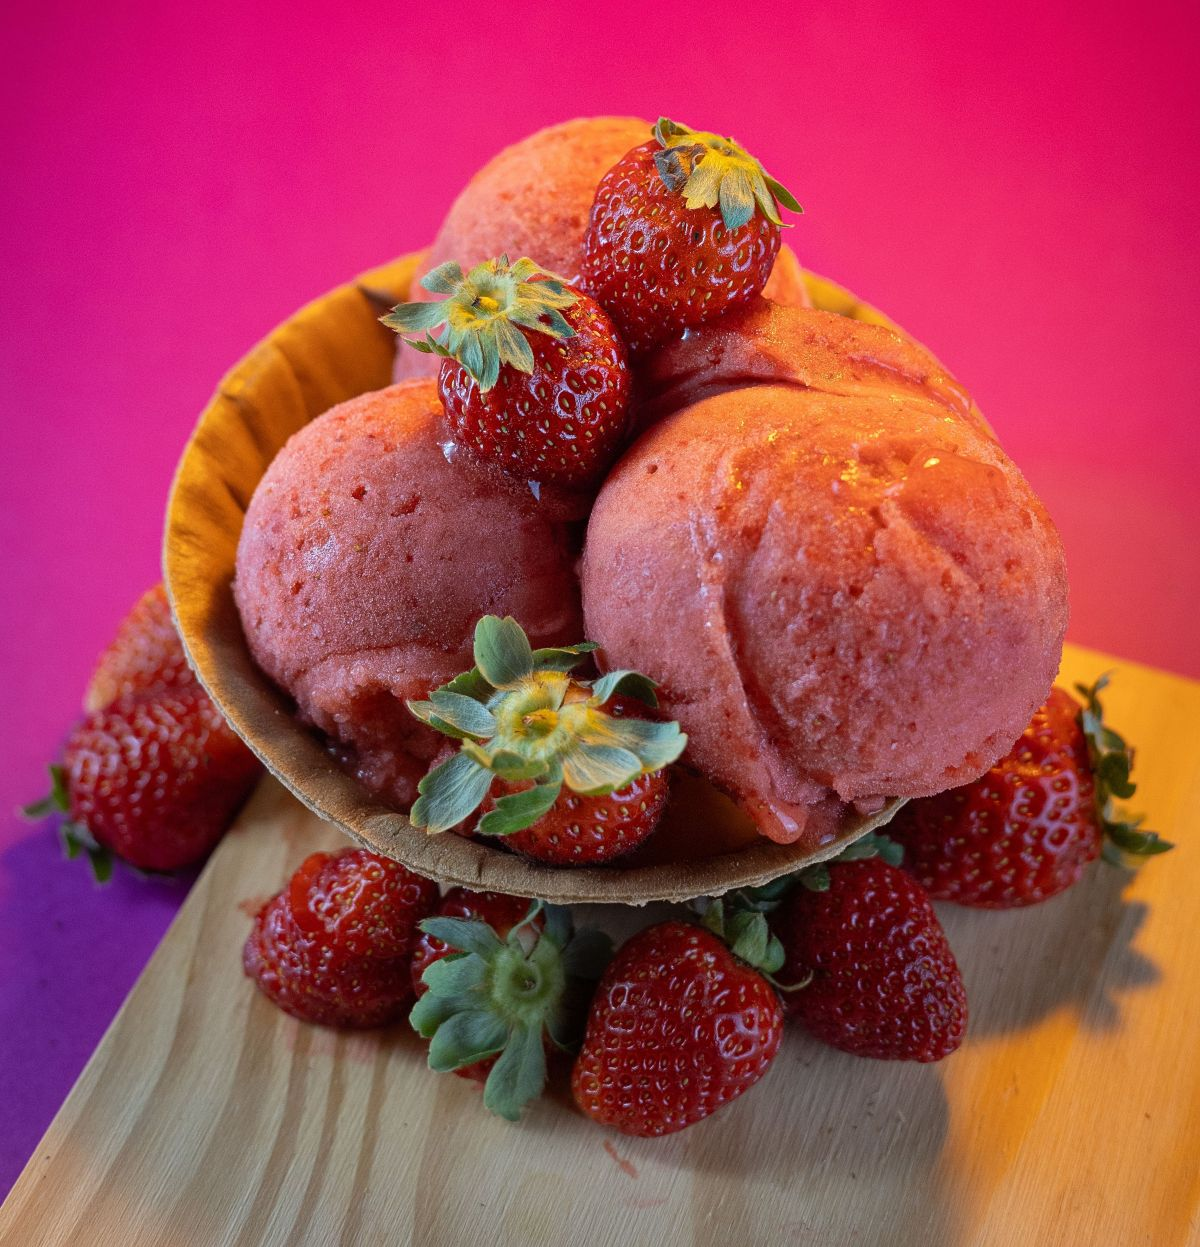
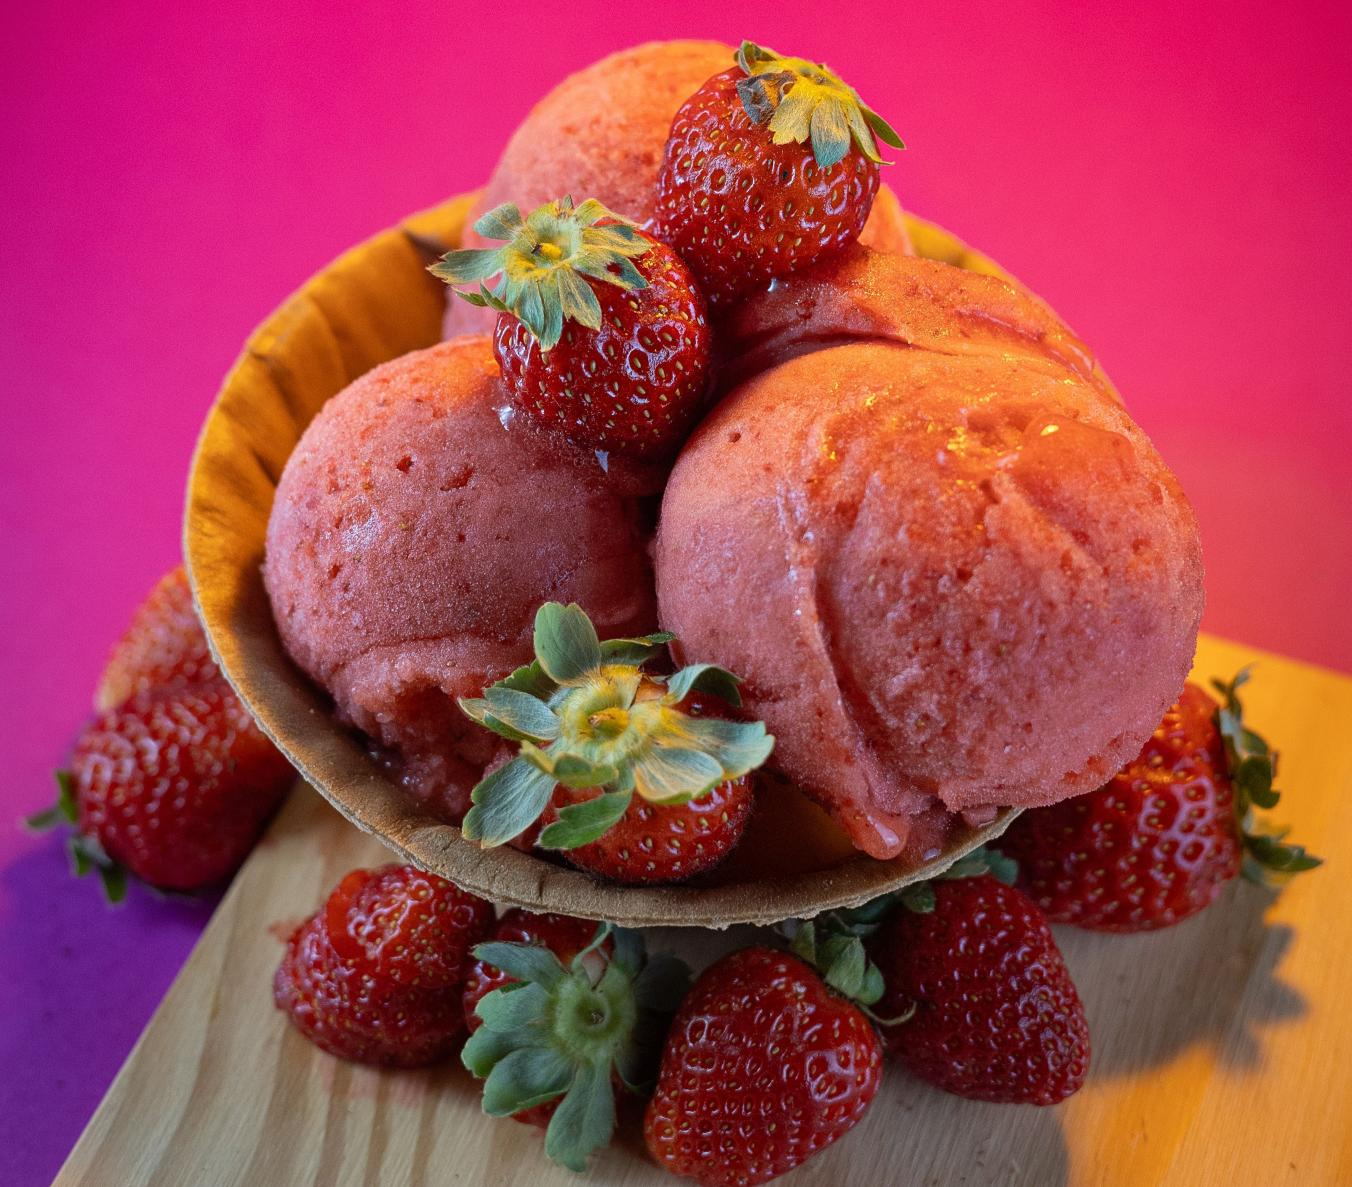
fixed App.vue html layout and added base for css  grid layout, re arranged css files and their content

diff --git a/src/App.vue b/src/App.vue
@@ -1,41 +1,71 @@
 <script setup lang="ts">
 import { ref, computed } from 'vue'
-
-
+const articleContent = ref([{para1: "some info about frozen yoghurt"}])
 const articles = ref([
   {articleID: 1, articleTitle: 'Frozen Yoghurt, Better than Ice Cream?', category: 'ThinkPiece', image: '/fruitImages/froYo.jpg', },
-  {articleID: 2, articleTitle: 'When Life gives you Limes', category: 'Recipe', image: 'assets/fruitImages/limes.jpg' },
-  {articleID: 3, articleTitle: 'The Comprehensive History Of Figs', category: 'Educational'}]);
-
-const articleContent = ref([{para1: "some info about frozen yoghurt"}])
-
-let nextID = articles.value.length+1;  //variable initialised to 4 for function to add an article
-
+  {articleID: 2, articleTitle: 'When Life gives you Limes', category: 'Recipe', image: 'src/assets/fruitImages/limes.jpg' },
+  {articleID: 3, articleTitle: 'The Comprehensive History Of Figs', category: 'Educational', image: 'src/assets/fruitImages/niceLittleFig.jpg'
+  }]);
+let nextID = articles.value.length+1;
 </script>
 
 <template>
-      <div class="sideBar">
-        <nav>
+  <div class="mainPageBody">
+
+    <header class="topBar">
+      <h2><b>Fruit Lovers!</b> </h2>
+    </header>
+
+      <nav class="sideBar">
         <ul>
           <li class = "listItem strokeText" ><a>Home</a></li>
           <li class = "listItem strokeText"><a>Saved</a></li>
           <li class = "listItem strokeText"><a>About</a></li>
           <li class = "listItem strokeText"><a>Profile</a></li>
         </ul>
-        </nav>
-      </div>
+      </nav>
 
-       <header><h1>New Articles</h1></header>
-<div class ="articleItem" v-for="item in articles" :key="item.articleID">
- <img :src="item.image" :alt="item.articleTitle" width="300" height="220">
+    <main class="articleContent">
+       <h1>New Articles</h1>
+<div
+    class="articleItem"
+    v-for="item in articles"
+    :key="item.articleID">
+
+   <img
+   :src="item.image"
+   :alt="item.articleTitle"
+   width="300" height="190">
+
   <h2> Article {{item.articleID}} : {{item.articleTitle}}</h2>
  </div>
+</main>
 
+    <footer class="footer"></footer>
+
+</div>
 
 </template>
 
 <style>
-
+.topBar {
+  grid-area: top;
+}
+.sideBar {
+  grid-area: side;
+}
+.articleContent {
+  grid-area: main;
+}
+body h2 b {
+  font-size:3rem;
+  color:white;
+  text-shadow:
+  -4px -4px 0 #E9B934,
+   4px -4px 0 #E9B934,
+  -4px 4px 0 #E9B934,
+   4px 4px 0 #E9B934;
+}
 body {
   color: #ffffff;
   background-color: #f7efdb;
@@ -44,14 +74,18 @@ body {
   font-family: 'Inter', sans-serif;
   font-size: 15px;
 }
-
 .articleItem {
+  width:300px;
+  margin:40px;
   background-color: #fdda7b;
   border-radius: 18px;
 }
-
 .articleItem h2{
   color: #FF626C;
+}
+.footer {
+  grid-area: footer;
+  color:#72BDDD;
 }
 
 </style>

diff --git a/src/assets/base.css b/src/assets/base.css
@@ -1,12 +1,12 @@
-.app{
+/*FILE FPR GLOBAL STYLES, BODY BACKGROUND, DEFAULT FONTS, LAYOUT..*/
+
+#app{
 }
-.sidebar{
+.sideBar{
   list-style-type:none;
   background-color: #FF626C;
-}
-.articleItem {
- width:300px;
-margin:40px;
+  margin-top: -16px;
+  display:flex;
 }
 .articleItem img{
   border-radius: 18px 18px 0px 0px;
@@ -15,8 +15,17 @@ header{
   color:#FFBC56;
 }
 .strokeText {
+  list-style-type:none;
   color: white;
-  background-color: white;
+  background-color: #ff626c;
   text-shadow: -1px -1px 0 #e8d722, 1px -1px 0 #e8d722, -1px 1px 0 #e8d722, 1px 1px 0 #e8d722;
+}
+.topBar{
+  width:100%;
+  height:117px;
+  background-color: #d8f696;
+  box-sizing: border-box;
+  display:flex;
+  align-items: center;
 }
 

diff --git a/src/assets/main.css b/src/assets/main.css
@@ -5,11 +5,9 @@
   padding: 0;
   font-weight: normal;
 }
-
 a,
 .green {
   text-decoration: none;
-  color: hsl(0 84% 54%);
   transition: 0.4s;
   padding: 3px;
 }
@@ -17,22 +15,20 @@ a,
 .green li {
   color: white;
 }
-
 @media (hover: hover) {
   a:hover {
     background-color: hsl(201 100% 54%);
   }
 }
-
 @media (min-width: 1024px) {
   body {
     display: flex;
     place-items: center;
   }
-
   #app {
-    display: grid;
-    grid-template-columns: 1fr 1fr;
-    padding: 0 2rem;
+    width: 100%;
+    min-height: 100vh;
+    margin: 0;
+    padding: 0;
   }
 }
